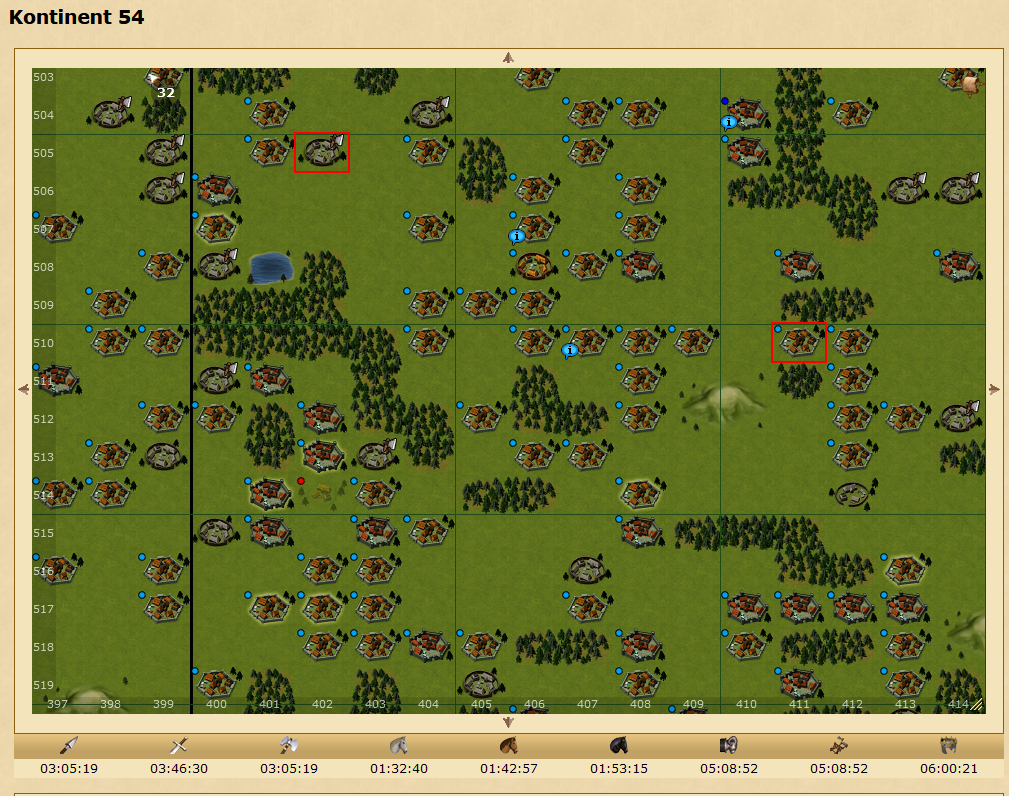
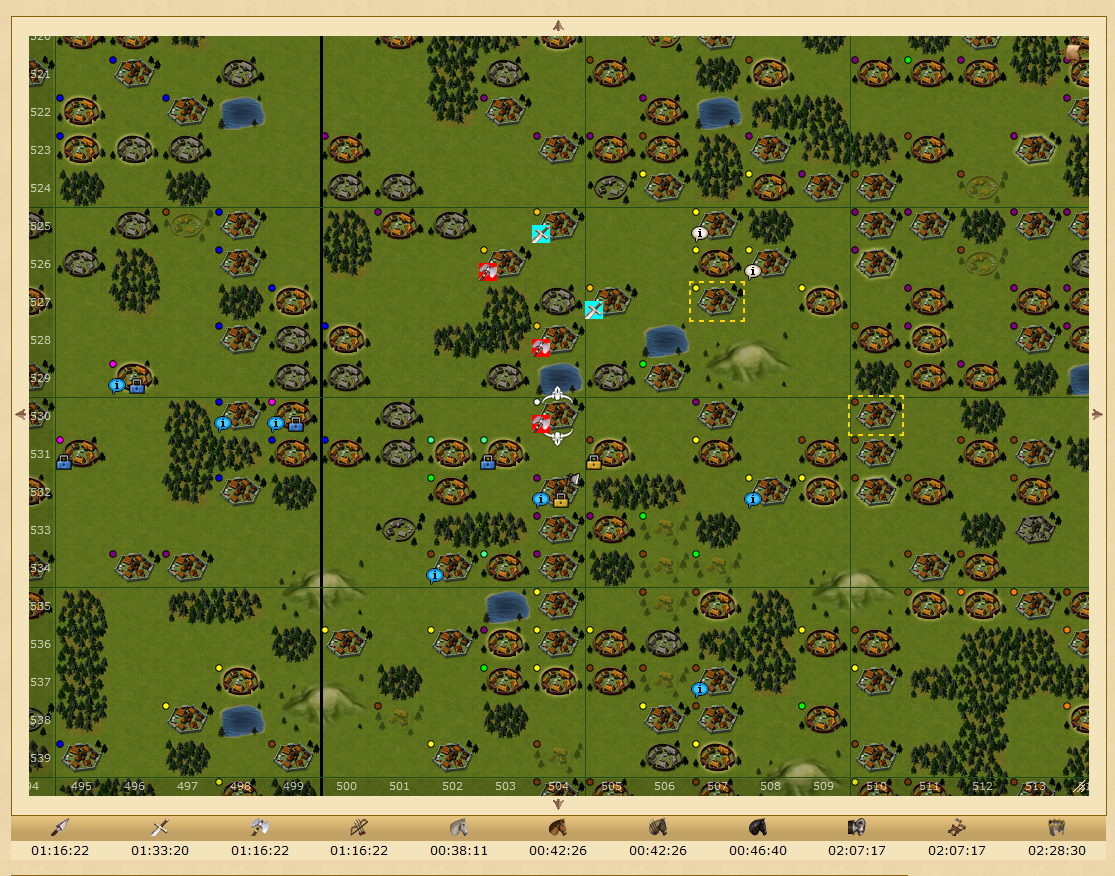
Finished Village Distance Calculator userscript.

diff --git a/dist/VillageDistanceCalculator/userscript.js b/dist/VillageDistanceCalculator/userscript.js
@@ -1,5 +1,5 @@
 // ==UserScript==
-// @name         VillageDistanceCalculator
+// @name         Village Distance Calculator
 // @namespace    https://github.com/LegendaryB/tw-userscripts
 // @version      0.4
 // @author       LegendaryB
@@ -9,4 +9,4 @@
 // @grant        none
 // ==/UserScript==
 
-(()=>{"use strict";console.log('<table id="distance-calc-table" class="vis" style="border-spacing: 0px; border-collapse: collapse; table-layout: fixed;" width="100%">\r\n    <thead>\r\n        <tr>\r\n            <th style="text-align: center;">\r\n                <a href="#" class="unit_link"> <img src="https://dsde.innogamescdn.com/asset/f6f54c14/graphic/unit/unit_spear.png" /></a>\r\n            </th>\r\n            <th style="text-align: center;">\r\n                <a href="#" class="unit_link"> <img src="https://dsde.innogamescdn.com/asset/f6f54c14/graphic/unit/unit_sword.png" /></a>\r\n            </th>\r\n            <th style="text-align: center;">\r\n                <a href="#" class="unit_link"> <img src="https://dsde.innogamescdn.com/asset/f6f54c14/graphic/unit/unit_axe.png" /></a>\r\n            </th>\r\n            <th style="text-align: center;">\r\n                <a href="#" class="unit_link"> <img src="https://dsde.innogamescdn.com/asset/f6f54c14/graphic/unit/unit_spy.png" /></a>\r\n            </th>\r\n            <th style="text-align: center;">\r\n                <a href="#" class="unit_link"> <img src="https://dsde.innogamescdn.com/asset/f6f54c14/graphic/unit/unit_light.png" /></a>\r\n            </th>\r\n            <th style="text-align: center;">\r\n                <a href="#" class="unit_link"> <img src="https://dsde.innogamescdn.com/asset/f6f54c14/graphic/unit/unit_heavy.png" /></a>\r\n            </th>\r\n            <th style="text-align: center;">\r\n                <a href="#" class="unit_link"> <img src="https://dsde.innogamescdn.com/asset/f6f54c14/graphic/unit/unit_ram.png" /></a>\r\n            </th>\r\n            <th style="text-align: center;">\r\n                <a href="#" class="unit_link"> <img src="https://dsde.innogamescdn.com/asset/f6f54c14/graphic/unit/unit_catapult.png" /></a>\r\n            </th>\r\n            <th style="text-align: center;">\r\n                <a href="#" class="unit_link"> <img src="https://dsde.innogamescdn.com/asset/f6f54c14/graphic/unit/unit_snob.png" /></a>\r\n            </th>\r\n            <th style="text-align: center;">\r\n                <a href="#" class="unit_link"> <img src="https://dsde.innogamescdn.com/asset/f6f54c14/graphic/unit/unit_knight.png" /></a>\r\n            </th>\r\n        </tr>\r\n    </thead>\r\n    <tbody>\r\n        <tr>\r\n            <td style="text-align: center;" data-unit="spear">%SPEAR%</td>\r\n            <td style="text-align: center;" data-unit="sword">%SWORD%</td>\r\n            <td style="text-align: center;" data-unit="axe">%AXE%</td>\r\n            <td style="text-align: center;" data-unit="spy">%SPY%</td>\r\n            <td style="text-align: center;" data-unit="light">%LIGHT%</td>\r\n            <td style="text-align: center;" data-unit="heavy">%HEAVY%</td>\r\n            <td style="text-align: center;" data-unit="ram">%RAM%</td>\r\n            <td style="text-align: center;" data-unit="catapult">%CATAPULT%</td>\r\n            <td style="text-align: center;" data-unit="snob">%SNOB%</td>\r\n            <td style="text-align: center;" data-unit="snob">%KNIGHT%</td>\r\n        </tr>\r\n    </tbody>\r\n</table>')})();
+(()=>{"use strict";class e{static InfoMessage(e){window.UI.InfoMessage(e)}static SuccessMessage(e){window.UI.SuccessMessage(e)}static ErrorMessage(e){window.UI.ErrorMessage(e)}}var t;class n{static registerTranslationProvider(e,t){this.translationProviderMap.set(e,t)}static unregisterTranslationProvider(e){this.translationProviderMap.delete(e)}static getPropertyKeyByHandlebar(e){return e.replace("{{","").replace("}}","")}}t=n,n.translationProviderMap=new Map,n.translate=e=>{let n=t.translationProviderMap.get(window.game_data.locale);return n?n[e]:"ERROR! NO TRANSLATION!"},n.translateAndReplace=e=>{let n=e.match(/{{{?(#[a-z]+ )?[a-z]+.[a-z]*}?}}/gi);if(!n)return e;for(const a of n){let n=t.getPropertyKeyByHandlebar(a),r=t.translate(n);e=e.replace(a,r)}return e},new n;const a=`tw-framework_${window.game_data.world}`;class r{static getItem(e){return e=this.makeKey(e),localStorage.getItem(e)}static setItem(e,t){e=this.makeKey(e),localStorage.setItem(e,t)}static setRawItem(e,t){e=this.makeKey(e);let n=JSON.stringify(t);localStorage.setItem(e,n)}static removeItem(e){e=this.makeKey(e),localStorage.removeItem(e)}static makeKey(e){return`${a}_${e}`}}const i=(e,t)=>e.substring(0,t)+e.charAt(t).toUpperCase()+e.substr(t+1),l=e=>{let t=((e,t)=>{let n=[],a=-1;for(;(a=e.indexOf("_",a+1))>=0;)n.push(a);return n})(e);e=i(e,0);for(const n of t)e=i(e,n+1);return e.replaceAll("_","")};var o=function(e,t,n,a){return new(n||(n=Promise))((function(r,i){function l(e){try{s(a.next(e))}catch(e){i(e)}}function o(e){try{s(a.throw(e))}catch(e){i(e)}}function s(e){var t;e.done?r(e.value):(t=e.value,t instanceof n?t:new n((function(e){e(t)}))).then(l,o)}s((a=a.apply(e,t||[])).next())}))};const s=(e,t,n)=>{let a=((e,t)=>{let n=e.xy.toString(),a=t.xy.toString();return((e,t,n,a)=>{let r=e-n,i=t-a;return Math.sqrt(r*r+i*i)})(Number(n.slice(0,3)),Number(n.slice(3,6)),Number(a.slice(0,3)),Number(a.slice(3,6)))})(e,t);return((e,t)=>e*t)(a,n.Speed)},c=window.TWMap,d=c.mapHandler;let u=!1,g=[];const f=(e,t)=>{let n=`\n    <div class="SelectionIndicator" id="SelectionIndicator_${e.id}"\n        style="outline: 2px dashed gold; width:52px; height:37px; position: absolute; z-index: 50; left: ${t.style.left}; top: ${t.style.top};">\n    </div>\n`;t.insertAdjacentHTML("afterend",n)},m=e=>{const t=document.getElementById("VillageDistanceCalculatorHeaders"),n=`\n    <th style="text-align: center;">\n        <a href="#" class="unit_link"> <img src="https://dsde.innogamescdn.com/asset/f6f54c14/graphic/unit/unit_${e.toLowerCase()}.png"/></a>\n    </th>\n`;t.insertAdjacentHTML("beforeend",n)},p=(e,t)=>{const n=document.getElementById("VillageDistanceCalculatorBody"),a=((e,t)=>`\n    <td style="text-align: center;" data-unit="${e}">${t}</td>\n`)(e.toLowerCase(),t);n.insertAdjacentHTML("beforeend",a)},y=async()=>{const e=await o(void 0,void 0,void 0,(function*(){let e=yield(t="interface.php?func=get_unit_info",n="unitInfo",o(void 0,void 0,void 0,(function*(){let e=r.getItem(n);if(e)return JSON.parse(e);let a=yield(e=>o(void 0,void 0,void 0,(function*(){let t=`${new URL(window.location.origin)}/${e}`,n=yield fetch(t);return yield n.text()})))(t),s=(e=>{let t={},n=(new DOMParser).parseFromString(e,"text/xml").querySelector("config");for(const e of n.children){let n=l(i(e.localName,0));if(t[n]={},0!=e.children.length)for(const a of e.children){let e=l(a.localName);t[n][e]=Number(a.innerHTML)}else t[n]=Number(e.innerHTML)}return t})(a);return r.setRawItem(n,s),s})));var t,n;return delete e.Militia,e})),t=g[0],n=g[1];document.getElementById("map_whole").insertAdjacentHTML("afterend",'\n    <table id="VillageDistanceCalculatorTable" class="vis" style="border-spacing: 0px; border-collapse: collapse; table-layout: fixed;" width="100%">\n        <thead>\n            <tr id="VillageDistanceCalculatorHeaders">\n            </tr>\n        </thead>\n        <tbody>\n            <tr id="VillageDistanceCalculatorBody">\n            </tr>\n        </tbody>\n    </table>\n');for(const a in e){const r=s(t,n,e[a]);m(a),p(a,S(r))}},h=(e,t)=>{d.integratedSpawnSector(e,t);for(const e of g){let t=document.getElementById(`map_village_${e.id}`);t&&f(e,t)}},w=(t,n,a)=>((async(t,n)=>{let a=c.villages[1e3*t+n];if(!a)return;2==g.length&&v(),e.SuccessMessage(`Selected village: ${t}|${n}`);let r=g.findIndex((e=>e.id==a.id));-1!=r?g.splice(r,1):g.push(a),c.reload(),2==g.length&&await y()})(t,n),!1),v=()=>{g=[],M(),c.reload()},M=()=>{let e=document.getElementById("VillageDistanceCalculatorTable");e&&e.remove()},I=e=>e<10?`0${e}`:e,S=e=>{let t=Math.round(60*e),n=t%60,a=Math.floor(t/60),r=a%60,i=Math.floor(a/60),l=i%24,o=Math.floor(i/24);return o>0&&(l+=24*o),`${I(l)}:${I(r)}:${I(n)}`};document.addEventListener("keydown",(t=>{(t.isComposing||"d"===t.key)&&(u?(e.InfoMessage("VillageDistanceCalculator inactive"),u=!1,d.spawnSector=d.integratedSpawnSector,d.onClick=d.integratedClickFunction,v()):(e.InfoMessage("VillageDistanceCalculator active"),u=!0,d.integratedSpawnSector=d.spawnSector,d.spawnSector=h,d.integratedClickFunction=d.onClick,d.onClick=w,c.reload()))}))})();

diff --git a/src/userscripts/VillageDistanceCalculator/src/index.ts b/src/userscripts/VillageDistanceCalculator/src/index.ts
@@ -1,3 +1,176 @@
-import html from './templates/table-with-knight.html';
+import { createUnitTable, createUnitTableHeader, createUnitTableCell, createSelectionIndicator } from './templates';
+import { getTWMap, UIMessageService, getUnitInfo, calcUnitTravelTimeBetweenVillages, TWMapVillage, TWMapHandler } from 'tw-framework';
 
-console.log(html);
+const TABLE_ID = 'VillageDistanceCalculatorTable';
+const TABLE_HEADER_ID = 'VillageDistanceCalculatorHeaders';
+const TABLE_BODY_AREA_ID = 'VillageDistanceCalculatorBody'
+
+const map = getTWMap();
+const mapHandler = map.mapHandler as MapHandler;
+const travelTimeTable = createUnitTable();
+
+let scriptActive = false;
+let selectedVillages: TWMapVillage[] = [];
+
+interface MapHandler extends TWMapHandler {
+    integratedSpawnSector: any;
+    integratedClickFunction: any;
+}
+
+const renderSelectionIndicator = (village: TWMapVillage, villageElement: HTMLElement) => {
+    let template = createSelectionIndicator(village.id, villageElement.style.left, villageElement.style.top);
+    villageElement.insertAdjacentHTML('afterend', template);
+}
+
+const insertTravelTimeTable = () => {
+    let anchor = document.getElementById('map_whole');
+    anchor.insertAdjacentHTML('afterend', travelTimeTable);
+}
+
+const insertUnitTableHeader = (unit: string) => {
+    const tableHeaderElement = document.getElementById(TABLE_HEADER_ID) as HTMLTableRowElement;
+    const header = createUnitTableHeader(`https://dsde.innogamescdn.com/asset/f6f54c14/graphic/unit/unit_${unit.toLowerCase()}.png`)
+
+    tableHeaderElement.insertAdjacentHTML('beforeend', header);
+}
+
+const insertUnitTableCell = (unit: string, value: string) => {
+    const tableBodyAreaElement = document.getElementById(TABLE_BODY_AREA_ID) as HTMLTableRowElement;
+    const cell = createUnitTableCell(unit.toLowerCase(), value);
+
+    tableBodyAreaElement.insertAdjacentHTML('beforeend', cell);
+}
+
+const renderTravelTimeTable = async () => {
+    const unitInfo = await getUnitInfo();
+    const startVillage = selectedVillages[0];
+    const targetVillage = selectedVillages[1];
+
+    insertTravelTimeTable();
+
+    for (const key in unitInfo) {
+        const travelTime = calcUnitTravelTimeBetweenVillages(startVillage, targetVillage, unitInfo[key]);
+
+        insertUnitTableHeader(key);
+        insertUnitTableCell(key, convertTime(travelTime));
+    }
+}
+
+const customSpawnSector = (data: any, sector: any) => {
+    mapHandler.integratedSpawnSector(data, sector);
+
+    for (const village of selectedVillages) {
+        let mapVillageElement = document.getElementById(`map_village_${village.id}`);
+
+        if (!mapVillageElement) {
+            continue;
+        }
+
+        renderSelectionIndicator(village, mapVillageElement);
+    }
+}
+
+const handleTWMapVillageClick = async (x: number, y: number) => {
+    let village = map.villages[(x) * 1000 + y];
+
+    if (!village) {
+        return;
+    }
+
+    if (selectedVillages.length == 2) {
+        resetSelectedVillages();
+    }
+
+    UIMessageService.SuccessMessage(`Selected village: ${x}|${y}`);
+
+    let indexInSelectedVillagesArray = selectedVillages.findIndex(sv => sv.id == village.id);
+
+    if (indexInSelectedVillagesArray != -1) {
+        selectedVillages.splice(indexInSelectedVillagesArray, 1);
+    }
+    else {
+        selectedVillages.push(village);
+    }
+
+    map.reload();
+
+    if (selectedVillages.length == 2) {
+        await renderTravelTimeTable();
+    }
+}
+
+const customClickFunction = (x: number, y: number, e: Event) => {
+    handleTWMapVillageClick(x, y);
+    return false;
+}
+
+const enableVillageSelection = () => {
+    UIMessageService.InfoMessage('VillageDistanceCalculator active');
+
+    scriptActive = true;
+
+    mapHandler.integratedSpawnSector = mapHandler.spawnSector;
+    mapHandler.spawnSector = customSpawnSector;
+
+    mapHandler.integratedClickFunction = mapHandler.onClick;
+    mapHandler.onClick = customClickFunction;
+
+    map.reload();
+};
+
+const disableVillageSelection = () => {
+    UIMessageService.InfoMessage('VillageDistanceCalculator inactive');
+
+    scriptActive = false;
+
+    mapHandler.spawnSector = mapHandler.integratedSpawnSector;
+    mapHandler.onClick = mapHandler.integratedClickFunction;
+
+    resetSelectedVillages();
+};
+
+const resetSelectedVillages = () => {
+    selectedVillages = [];
+    removeTravelTimeTable();
+
+    map.reload();
+}
+
+const removeTravelTimeTable = () => {
+    let table = document.getElementById(TABLE_ID);
+
+    if (table) {
+        table.remove();
+    }
+}
+
+const formatTime = (input: number) => {
+    return input < 10 ? `0${input}` : input;
+}
+
+const convertTime = (input: number) => {
+    let input1 = Math.round(input * 60);
+    let seconds = (input1 % 60);
+    let input2 = Math.floor(input1 / 60);
+    let minutes = input2 % 60;
+    let input3 = Math.floor(input2 / 60);
+    let hours = input3 % 24;
+    let days = Math.floor(input3 / 24);
+
+    if (days > 0) {
+        hours += days * 24;
+    }
+
+    return `${formatTime(hours)}:${formatTime(minutes)}:${formatTime(seconds)}`;
+}
+
+document.addEventListener('keydown', (event) => {
+    if (event.isComposing || event.key === 'd') {
+        if (!scriptActive) {
+            enableVillageSelection();
+        }
+        else {
+            disableVillageSelection();
+        }
+    }
+});

diff --git a/dist/DebugScript/userscript.js b/dist/DebugScript/userscript.js
@@ -8,4 +8,4 @@
 // @grant        none
 // ==/UserScript==
 
-(()=>{"use strict";var e;class t{static registerTranslationProvider(e,t){this.translationProviderMap.set(e,t)}static unregisterTranslationProvider(e){this.translationProviderMap.delete(e)}static getPropertyKeyByHandlebar(e){return e.replace("{{","").replace("}}","")}}e=t,t.translationProviderMap=new Map,t.translate=t=>{let n=e.translationProviderMap.get(window.game_data.locale);return n?n[t]:"ERROR! NO TRANSLATION!"},t.translateAndReplace=t=>{let n=t.match(/{{{?(#[a-z]+ )?[a-z]+.[a-z]*}?}}/gi);if(!n)return t;for(const r of n){let n=e.getPropertyKeyByHandlebar(r),o=e.translate(n);t=t.replace(r,o)}return t},new t;const n=`tw-framework_${window.game_data.world}`;class r{static getItem(e){return e=this.makeKey(e),localStorage.getItem(e)}static setItem(e,t){e=this.makeKey(e),localStorage.setItem(e,t)}static setRawItem(e,t){e=this.makeKey(e);let n=JSON.stringify(t);localStorage.setItem(e,n)}static removeItem(e){e=this.makeKey(e),localStorage.removeItem(e)}static makeKey(e){return`${n}_${e}`}}const o=(e,t)=>e.substring(0,t)+e.charAt(t).toUpperCase()+e.substr(t+1),i=e=>{let t=((e,t)=>{let n=[],r=-1;for(;(r=e.indexOf("_",r+1))>=0;)n.push(r);return n})(e);e=o(e,0);for(const n of t)e=o(e,n+1);return e.replaceAll("_","")};var a=function(e,t,n,r){return new(n||(n=Promise))((function(o,i){function a(e){try{c(r.next(e))}catch(e){i(e)}}function l(e){try{c(r.throw(e))}catch(e){i(e)}}function c(e){var t;e.done?o(e.value):(t=e.value,t instanceof n?t:new n((function(e){e(t)}))).then(a,l)}c((r=r.apply(e,t||[])).next())}))};const l=(e,t)=>a(void 0,void 0,void 0,(function*(){let n=r.getItem(t);if(n)return JSON.parse(n);let l=yield(e=>a(void 0,void 0,void 0,(function*(){let t=`${new URL(window.location.origin)}/${e}`,n=yield fetch(t);return yield n.text()})))(e),c=(e=>{let t={},n=(new DOMParser).parseFromString(e,"text/xml").querySelector("config");for(const e of n.children){let n=i(o(e.localName,0));if(t[n]={},0!=e.children.length)for(const r of e.children){let e=i(r.localName);t[n][e]=Number(r.innerHTML)}else t[n]=Number(e.innerHTML)}return t})(l);return r.setRawItem(t,c),c}));(async()=>{let e=await a(void 0,void 0,void 0,(function*(){return yield l("interface.php?func=get_unit_info","unitInfo")}));console.log(await a(void 0,void 0,void 0,(function*(){return l("interface.php?func=get_config","worldConfig")}))),console.log(await a(void 0,void 0,void 0,(function*(){return yield l("interface.php?func=get_building_info","buildingInfo")}))),console.log(e),console.log(e.Knight)})()})();
+(()=>{"use strict";var e;class t{static registerTranslationProvider(e,t){this.translationProviderMap.set(e,t)}static unregisterTranslationProvider(e){this.translationProviderMap.delete(e)}static getPropertyKeyByHandlebar(e){return e.replace("{{","").replace("}}","")}}e=t,t.translationProviderMap=new Map,t.translate=t=>{let n=e.translationProviderMap.get(window.game_data.locale);return n?n[t]:"ERROR! NO TRANSLATION!"},t.translateAndReplace=t=>{let n=t.match(/{{{?(#[a-z]+ )?[a-z]+.[a-z]*}?}}/gi);if(!n)return t;for(const r of n){let n=e.getPropertyKeyByHandlebar(r),o=e.translate(n);t=t.replace(r,o)}return t},new t;const n=`tw-framework_${window.game_data.world}`;class r{static getItem(e){return e=this.makeKey(e),localStorage.getItem(e)}static setItem(e,t){e=this.makeKey(e),localStorage.setItem(e,t)}static setRawItem(e,t){e=this.makeKey(e);let n=JSON.stringify(t);localStorage.setItem(e,n)}static removeItem(e){e=this.makeKey(e),localStorage.removeItem(e)}static makeKey(e){return`${n}_${e}`}}const o=(e,t)=>e.substring(0,t)+e.charAt(t).toUpperCase()+e.substr(t+1),i=e=>{let t=((e,t)=>{let n=[],r=-1;for(;(r=e.indexOf("_",r+1))>=0;)n.push(r);return n})(e);e=o(e,0);for(const n of t)e=o(e,n+1);return e.replaceAll("_","")};var a=function(e,t,n,r){return new(n||(n=Promise))((function(o,i){function a(e){try{c(r.next(e))}catch(e){i(e)}}function l(e){try{c(r.throw(e))}catch(e){i(e)}}function c(e){var t;e.done?o(e.value):(t=e.value,t instanceof n?t:new n((function(e){e(t)}))).then(a,l)}c((r=r.apply(e,t||[])).next())}))};const l=(e,t)=>a(void 0,void 0,void 0,(function*(){let n=r.getItem(t);if(n)return JSON.parse(n);let l=yield(e=>a(void 0,void 0,void 0,(function*(){let t=`${new URL(window.location.origin)}/${e}`,n=yield fetch(t);return yield n.text()})))(e),c=(e=>{let t={},n=(new DOMParser).parseFromString(e,"text/xml").querySelector("config");for(const e of n.children){let n=i(o(e.localName,0));if(t[n]={},0!=e.children.length)for(const r of e.children){let e=i(r.localName);t[n][e]=Number(r.innerHTML)}else t[n]=Number(e.innerHTML)}return t})(l);return r.setRawItem(t,c),c}));(async()=>{let e=await a(void 0,void 0,void 0,(function*(){let e=yield l("interface.php?func=get_unit_info","unitInfo");return delete e.Militia,e}));console.log(await a(void 0,void 0,void 0,(function*(){return l("interface.php?func=get_config","worldConfig")}))),console.log(await a(void 0,void 0,void 0,(function*(){return yield l("interface.php?func=get_building_info","buildingInfo")}))),console.log(e),console.log(e.Knight)})()})();

diff --git a/src/userscripts/VillageDistanceCalculator/src/templates/UnitTableTemplate.ts b/src/userscripts/VillageDistanceCalculator/src/templates/UnitTableTemplate.ts
@@ -1,0 +1,12 @@
+export const createUnitTable = () => `
+    <table id="VillageDistanceCalculatorTable" class="vis" style="border-spacing: 0px; border-collapse: collapse; table-layout: fixed;" width="100%">
+        <thead>
+            <tr id="VillageDistanceCalculatorHeaders">
+            </tr>
+        </thead>
+        <tbody>
+            <tr id="VillageDistanceCalculatorBody">
+            </tr>
+        </tbody>
+    </table>
+`;

diff --git a/src/userscripts/VillageDistanceCalculator/src/templates/SelectionIndicatorTemplate.ts b/src/userscripts/VillageDistanceCalculator/src/templates/SelectionIndicatorTemplate.ts
@@ -1,0 +1,5 @@
+export const createSelectionIndicator = (villageId: string, left: string, top: string) => `
+    <div class="SelectionIndicator" id="SelectionIndicator_${villageId}"
+        style="outline: 2px dashed gold; width:52px; height:37px; position: absolute; z-index: 50; left: ${left}; top: ${top};">
+    </div>
+`;

diff --git a/src/userscripts/VillageDistanceCalculator/src/templates/UnitTableHeaderTemplate.ts b/src/userscripts/VillageDistanceCalculator/src/templates/UnitTableHeaderTemplate.ts
@@ -1,0 +1,7 @@
+export const createUnitTableHeader = (img_src: string) => `
+    <th style="text-align: center;">
+        <a href="#" class="unit_link"> <img src="${img_src}"/></a>
+    </th>
+`;
+
+// todo: use IconAssetProvider

diff --git a/dist/TribeFarmAndRZStats/userscript.js b/dist/TribeFarmAndRZStats/userscript.js
@@ -1,5 +1,5 @@
 // ==UserScript==
-// @name         TribeFarmAndRZStats
+// @name         Tribe Farm and RZ stats
 // @namespace    https://github.com/LegendaryB/tw-userscripts
 // @version      0.1
 // @author       LegendaryB

diff --git a/src/userscripts/VillageDistanceCalculator/src/templates/index.ts b/src/userscripts/VillageDistanceCalculator/src/templates/index.ts
@@ -1,0 +1,4 @@
+export * from './UnitTableTemplate'
+export * from './UnitTableHeaderTemplate'
+export * from './UnitTableCellTemplate'
+export * from './SelectionIndicatorTemplate'

diff --git a/src/userscripts/VillageDistanceCalculator/src/templates/UnitTableCellTemplate.ts b/src/userscripts/VillageDistanceCalculator/src/templates/UnitTableCellTemplate.ts
@@ -1,0 +1,3 @@
+export const createUnitTableCell = (unit: string, value: string) => `
+    <td style="text-align: center;" data-unit="${unit}">${value}</td>
+`;

diff --git a/src/userscripts/TribeFarmAndRZStats/README.md b/src/userscripts/TribeFarmAndRZStats/README.md
@@ -1,4 +1,4 @@
-# TribeFarmAndRZStats
+# Tribe Farm and RZ stats
 
 Fetches the farm and RZ stats of a tribe and displays them in the ranking table.
 

diff --git a/src/userscripts/VillageDistanceCalculator/README.md b/src/userscripts/VillageDistanceCalculator/README.md
@@ -1,4 +1,4 @@
-# VillageDistanceCalculator
+# Village Distance Calculator
 
 Shows the distance between two selected villages
 
